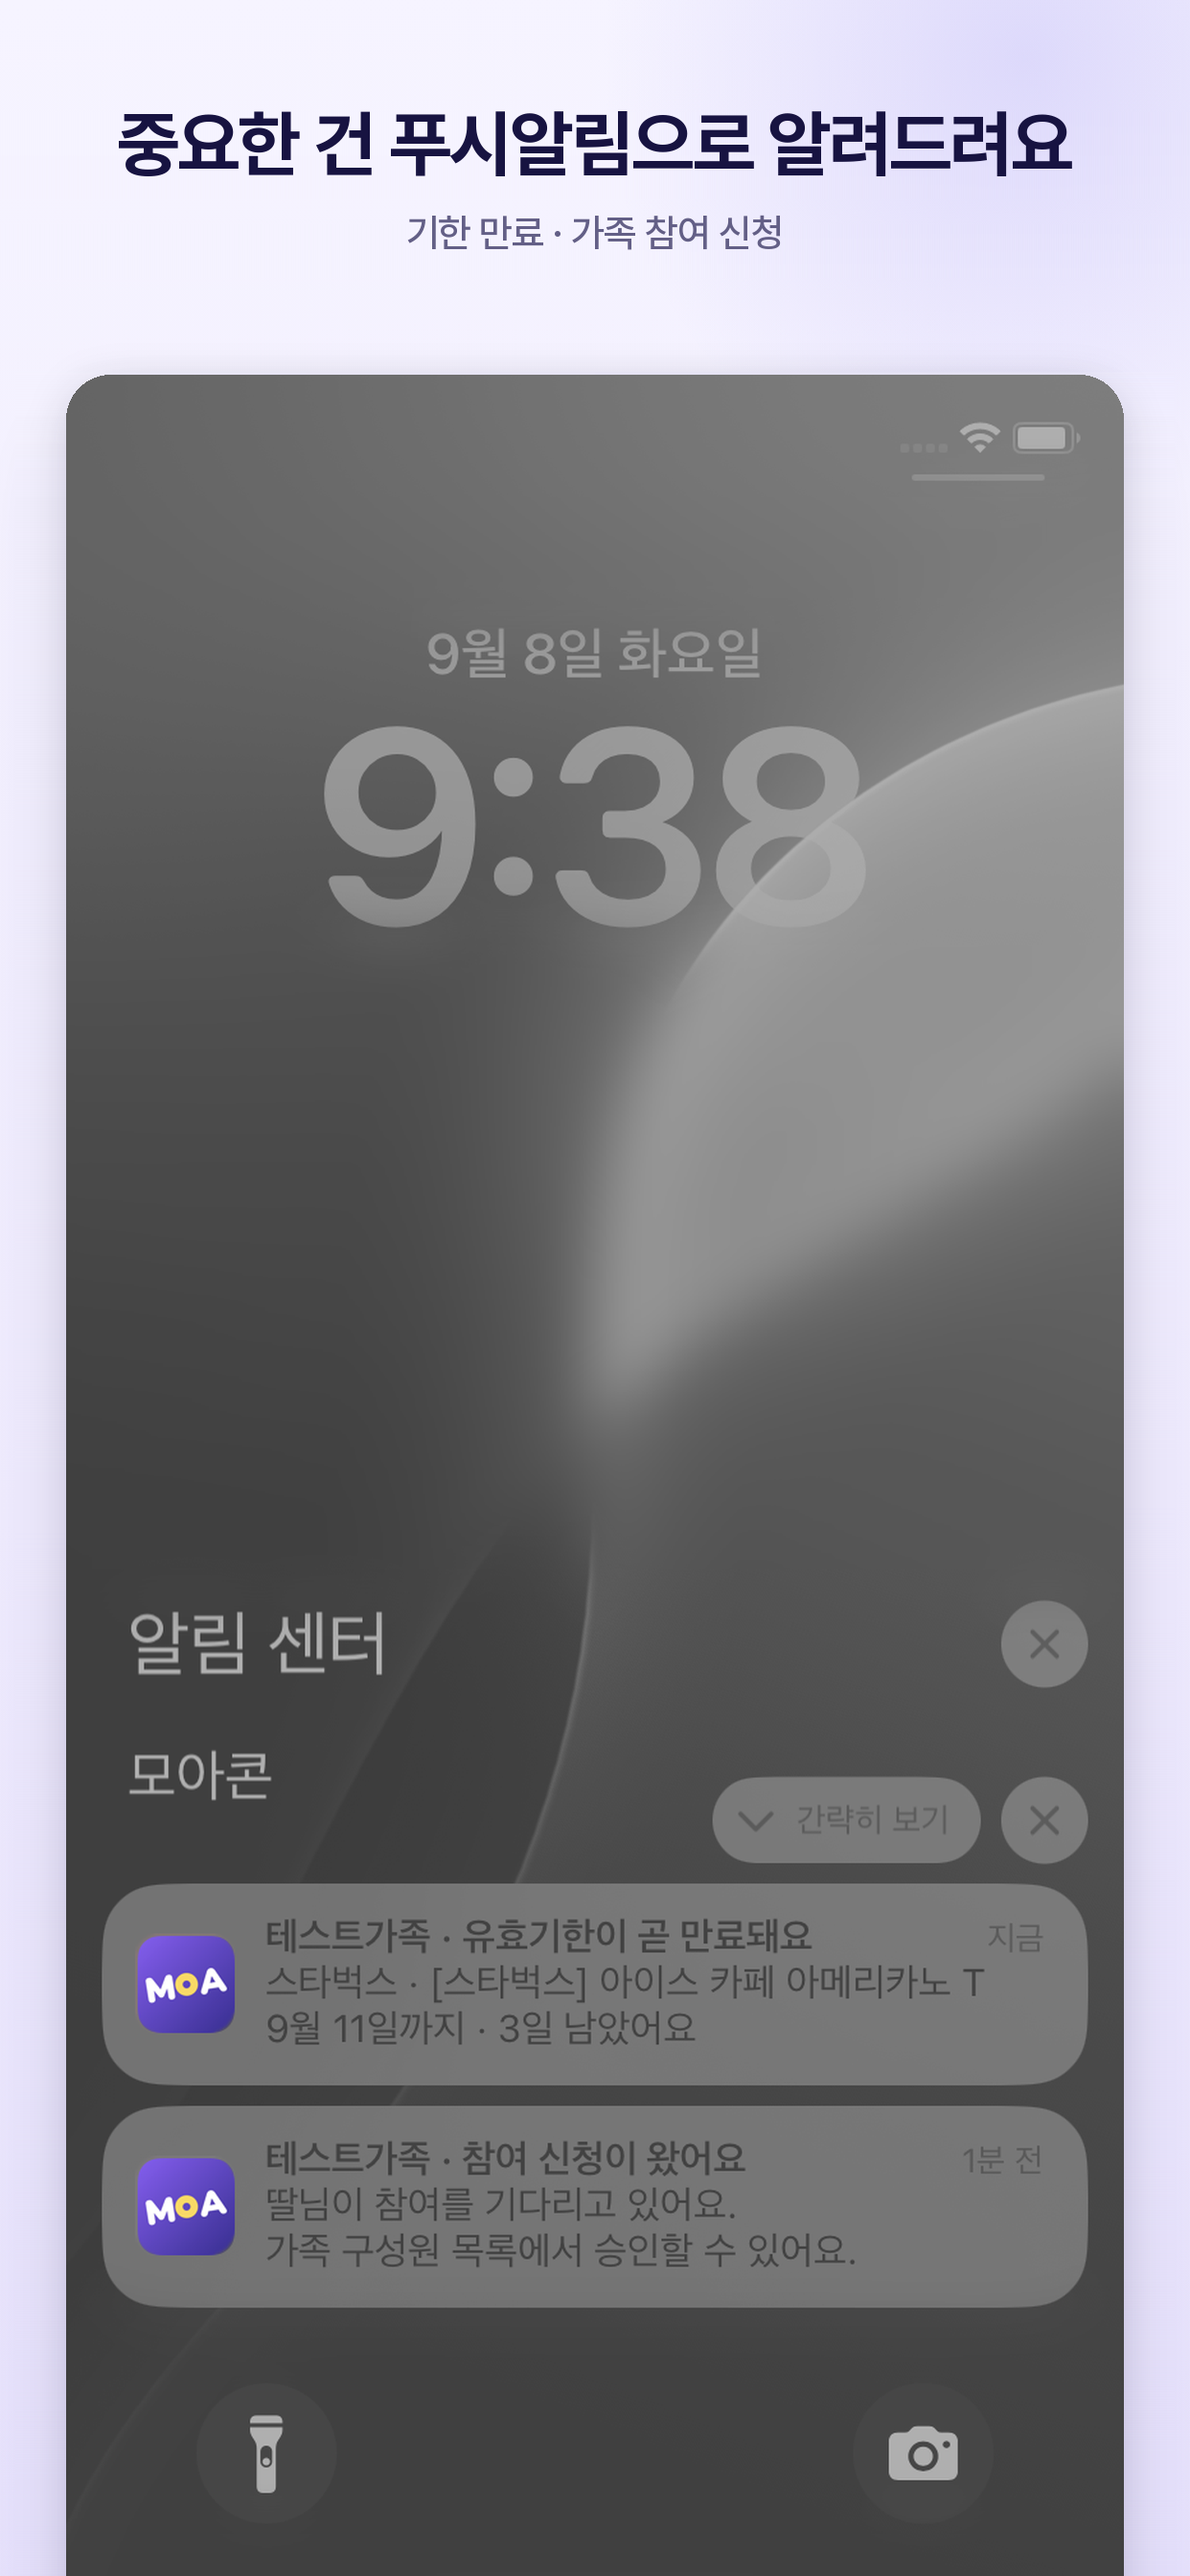
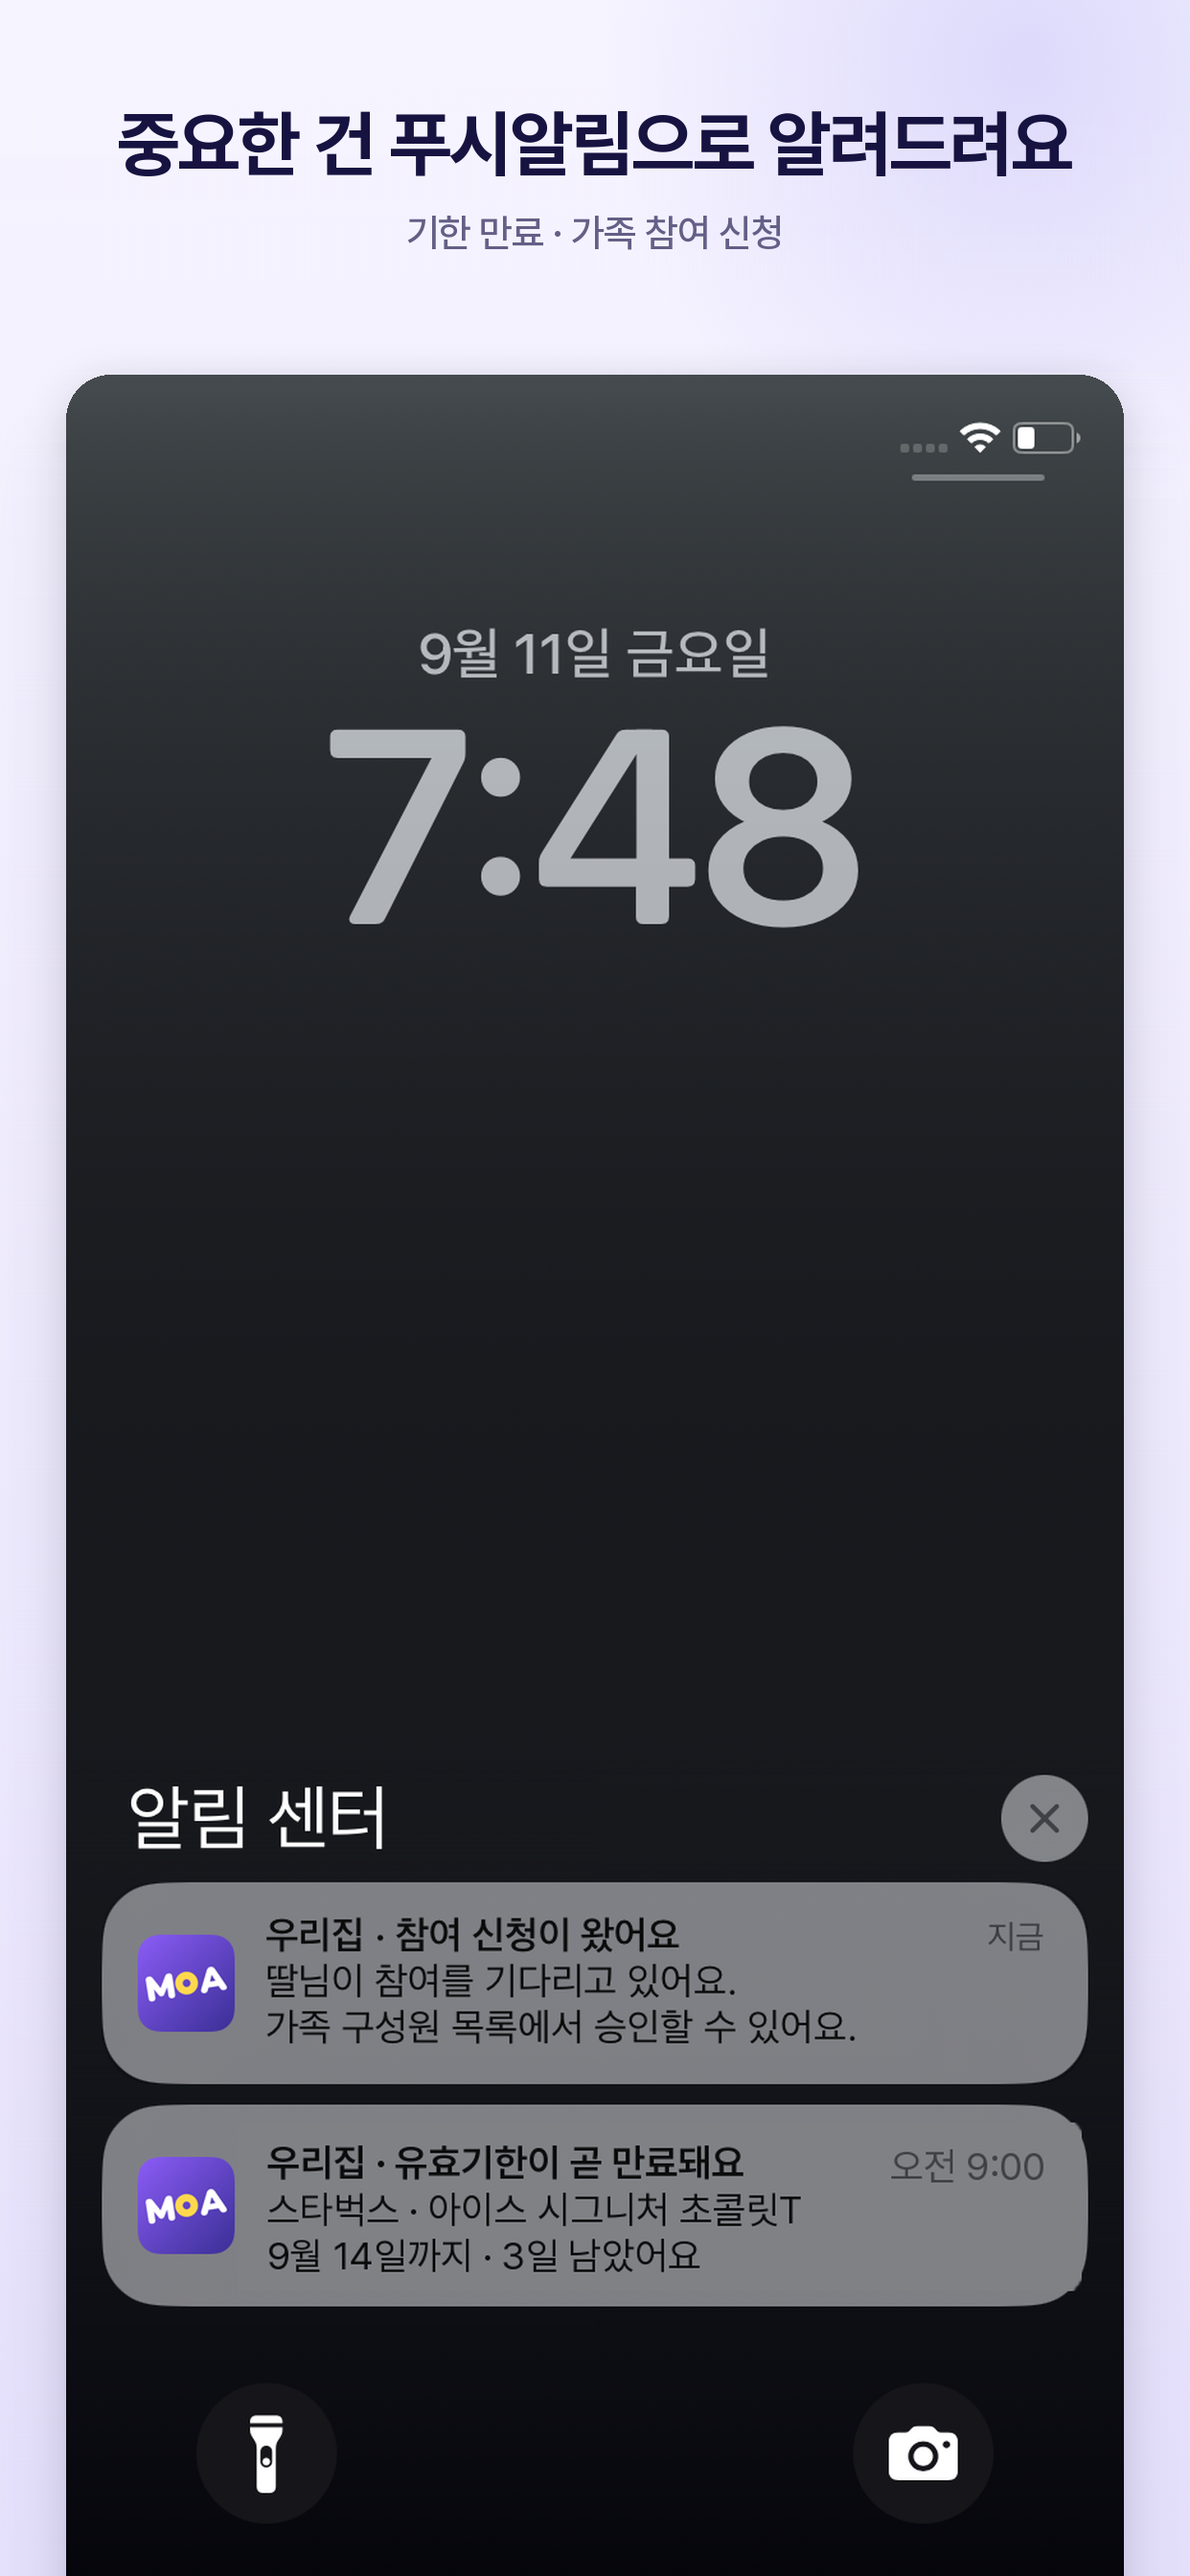
아이폰 푸시 사진을 단색 배경으로 다시 찍고, 사용기한 알림을 붙인다
배경화면을 갈아끼우려고 배경만 지워봤지만 안 됐다. iOS 잠금화면은 시계가 배경화면
피사체 뒤로 들어가는데(심도 효과), 그러면 가려진 부분이 사진에 아예 안 찍힌다.
없는 픽셀은 되살릴 수 없다. 단색 배경으로 다시 찍으니 한 번에 해결됐다.

사용기한 알림은 그 순간을 붙잡아야 찍을 수 있어서 마음대로 만들 수가 없다. 그래서
찍힌 카드를 한 장 더 깔고 글자만 다시 썼다(scripts/add-expiry-push.py). 카드 모양·색·
아이콘·간격이 전부 실물이라 손으로 그린 티가 안 난다. 갤럭시 것도 같은 방법이었다.

글자는 send-expiry-notifications가 실제로 보내는 형식 그대로다 - 가족 이름 · 제목,
상호 · 상품명, 기한과 남은 날.

만들면서 두 번 걸렸다. 글자 자리를 화면 기준으로 잡아 새 글자만 28px 밀려났고,
「알림 센터」 줄을 그냥 옮겨 원래 높이의 배경 밝기를 데려와 옅은 띠가 남았다. 둘 다
주석에 적어뒀다.

밝은 것과 어두운 것을 둘 다 만들어 어두운 쪽을 넣는다. 알림 카드가 더 잘 떠 보이고,
여덟 장 중 한 장쯤 어두운 것이 있는 편이 낫다. 바꾸려면 raw/ios/05-push.light.png를
05-push.png로 덮고 스크립트를 다시 돌리면 된다.

Claude-Session: https://claude.ai/code/session_0162SJJHihdyv8vNrHmvGXqM

diff --git a/scripts/add-expiry-push.py b/scripts/add-expiry-push.py
@@ -1,0 +1,173 @@
+#!/usr/bin/env python3
+"""잠금화면 사진에 사용기한 알림 카드를 한 장 더 붙인다.
+
+    python3 scripts/add-expiry-push.py <찍어온 사진> <내보낼 곳>
+
+── 왜 ──────────────────────────────────────────────────────────────────────
+
+푸시 스크린샷은 알림 두 종류를 보여주는 장이다. 참여 신청은 누가 신청하면 바로 뜨지만,
+사용기한 알림은 그 순간을 붙잡아야 찍을 수 있어서 마음대로 만들 수가 없다.
+
+그래서 찍힌 카드를 그대로 한 장 더 깔고 글자만 다시 쓴다. 카드 모양·색·아이콘·간격이
+전부 실물이라 손으로 그린 티가 안 난다. 갤럭시 것도 같은 방법으로 만들었다.
+
+**글자는 지어내지 않는다.** supabase/functions/send-expiry-notifications/index.ts:151이
+실제로 보내는 형식 그대로다 — 가족 이름 · 제목, 상호 · 상품명, 기한과 남은 날.
+그 문구를 고치면 이 그림도 같이 고쳐야 한다.
+
+── 어떻게 ──────────────────────────────────────────────────────────────────
+
+알림이 하나뿐인 사진은 그 하나가 아래쪽에 앉아 있다. 두 장을 넣으려면 위로 자리를
+만들어야 해서, 「알림 센터」 줄과 원래 카드를 한 칸(PITCH)씩 올리고 빈 자리에 새 카드를
+놓는다. 지운 자리는 그 줄의 배경색으로 메운다 — 잠금화면 배경이 단색 그라데이션일 때만
+깨끗하게 된다(무늬 있는 배경화면이면 자국이 남는다).
+
+새 카드가 아래로 가는 이유는 iOS가 새 알림을 위에 쌓기 때문이다. 참여 신청이 「지금」이고
+사용기한 알림은 아침에 왔으므로 그 아래가 맞다.
+"""
+
+import io
+import os
+import sys
+
+from PIL import Image, ImageDraw, ImageFont
+
+ROOT = os.path.dirname(os.path.dirname(os.path.abspath(__file__)))
+FONT_DIR = os.path.join(ROOT, "client/src/fonts")
+
+CARD = (28, 1354, 800, 1512)  # 찍힌 카드 자리
+PITCH = 174  # 카드 한 장이 차지하는 세로 (카드 158 + 사이 16)
+LABEL = (0, 1255, 828, 1348)  # 「알림 센터」 줄과 X 버튼
+WIPE = (1240, 1530)  # 지우고 다시 그릴 세로 구간
+
+# 글자 자리는 '카드 안' 기준이다. 화면에서 잰 값(157, 766)에서 카드 왼쪽(28)을 뺐다.
+# 한 번 빼는 것을 잊어서 새 글자만 28px 오른쪽으로 밀려 났다.
+TITLE_XY = (129, 27)
+BODY_X, BODY_Y = (129, 64), 36  # 첫 줄 자리와 줄 간격
+TIME_RIGHT = 738
+WIPE_LEFT = 106  # 아이콘(27..103) 바로 오른쪽부터 지운다
+SIZE = 30
+
+# 보낼 문구. 실제 형식과 같아야 한다.
+TITLE = "우리집 · 유효기한이 곧 만료돼요"
+BODY = ["스타벅스 · 아이스 시그니처 초콜릿T", "9월 14일까지 · 3일 남았어요"]
+WHEN = "오전 9:00"
+
+
+def load_font(weight, size):
+    from fontTools.ttLib import TTFont
+
+    f = TTFont(os.path.join(FONT_DIR, f"Pretendard-{weight}.subset.woff2"))
+    f.flavor = None
+    buf = io.BytesIO()
+    f.save(buf)
+    buf.seek(0)
+    return ImageFont.truetype(buf, size)
+
+
+def row_colors(im):
+    """줄마다의 배경색. 좌우 바깥에서 재어 가로로 이어준다."""
+    px = im.load()
+    return [(px[6, y], px[im.width - 7, y]) for y in range(im.height)]
+
+
+def wipe(im, y0, y1, rows=None):
+    px = im.load()
+    rows = rows or row_colors(im)
+    for y in range(y0, y1):
+        a, b = rows[y]
+        for x in range(im.width):
+            t = x / (im.width - 1)
+            px[x, y] = tuple(round(p + (q - p) * t) for p, q in zip(a, b))
+
+
+def sample(im, box):
+    """카드 바탕색과 글자색. 사진마다 밝기가 달라서 재서 쓴다."""
+    px = im.load()
+    base = px[box[2] - 40, box[1] + 18]
+    ink = min(
+        (px[x, y] for y in range(box[1] + 27, box[1] + 55) for x in range(160, 480)),
+        key=sum,
+    )
+    return base, ink
+
+
+def make_expiry_card(im):
+    """찍힌 카드를 베껴 글자만 새로 쓴다."""
+    card = im.crop(CARD)
+    base, ink = sample(im, CARD)
+    draw = ImageDraw.Draw(card)
+
+    # 글자만 지운다. 아이콘은 남겨야 해서 그 오른쪽부터 건드린다.
+    draw.rectangle([WIPE_LEFT, 14, card.width - 6, 145], fill=base)
+
+    bold = load_font("SemiBold", SIZE)
+    plain = load_font("Regular", SIZE)
+    faint = tuple(round(i + (b - i) * 0.45) for i, b in zip(ink, base))
+
+    draw.text(TITLE_XY, TITLE, font=bold, fill=ink)
+    draw.text((TIME_RIGHT - draw.textlength(WHEN, font=plain), TITLE_XY[1] + 3), WHEN, font=plain, fill=faint)
+    for i, line in enumerate(BODY):
+        draw.text((BODY_X[0], BODY_X[1] + i * BODY_Y), line, font=plain, fill=ink)
+    return card
+
+
+def shift_strip(strip, rows, src_y, dst_y):
+    """띠를 다른 높이로 옮길 때 배경 밝기를 그 자리에 맞춘다.
+
+    잠금화면 배경은 위아래로 밝기가 변한다. 「알림 센터」 줄을 그냥 오려 옮기면 원래
+    있던 높이의 밝기를 데리고 와서, 새 자리에 옅은 네모 띠로 남는다. 줄마다 원래 자리와
+    갈 자리의 배경색 차이만큼 더해주면 그 자국이 없어진다.
+    """
+    out = strip.copy()
+    p = out.load()
+    for y in range(strip.height):
+        sa, sb = rows[src_y + y]
+        da, db = rows[dst_y + y]
+        for x in range(strip.width):
+            t = x / (strip.width - 1)
+            src = (round(sa[i] + (sb[i] - sa[i]) * t) for i in range(3))
+            dst = (round(da[i] + (db[i] - da[i]) * t) for i in range(3))
+            p[x, y] = tuple(
+                max(0, min(255, v + d - s)) for v, s, d in zip(p[x, y], src, dst)
+            )
+    return out
+
+
+def card_mask(size, radius=40):
+    """카드를 붙일 때 쓰는 둥근 마스크.
+
+    없이 붙이면 네모로 오려낸 구석의 옛 배경이 같이 따라와, 새 자리에서 희미한
+    네모 자국으로 남는다.
+    """
+    m = Image.new("L", size, 0)
+    ImageDraw.Draw(m).rounded_rectangle([0, 0, size[0] - 1, size[1] - 1], radius, fill=255)
+    return m.filter(__import__("PIL.ImageFilter", fromlist=["ImageFilter"]).GaussianBlur(0.8))
+
+
+def build(src_path, dst_path):
+    im = Image.open(src_path).convert("RGB")
+    rows = row_colors(im)
+    card = im.crop(CARD)
+    label = im.crop(LABEL)
+    expiry = make_expiry_card(im)
+
+    wipe(im, *WIPE)
+    mask = card_mask(card.size)
+    im.paste(shift_strip(label, rows, LABEL[1], LABEL[1] - PITCH), (LABEL[0], LABEL[1] - PITCH))
+    im.paste(card, (CARD[0], CARD[1] - PITCH), mask)
+    im.paste(expiry, (CARD[0], CARD[1]), mask)
+    im.save(dst_path)
+    return dst_path
+
+
+def main():
+    if len(sys.argv) != 3:
+        print("쓰는 법: python3 scripts/add-expiry-push.py <찍어온 사진> <내보낼 곳>")
+        return 1
+    print("만들었습니다:", build(sys.argv[1], sys.argv[2]))
+    return 0
+
+
+if __name__ == "__main__":
+    raise SystemExit(main())
